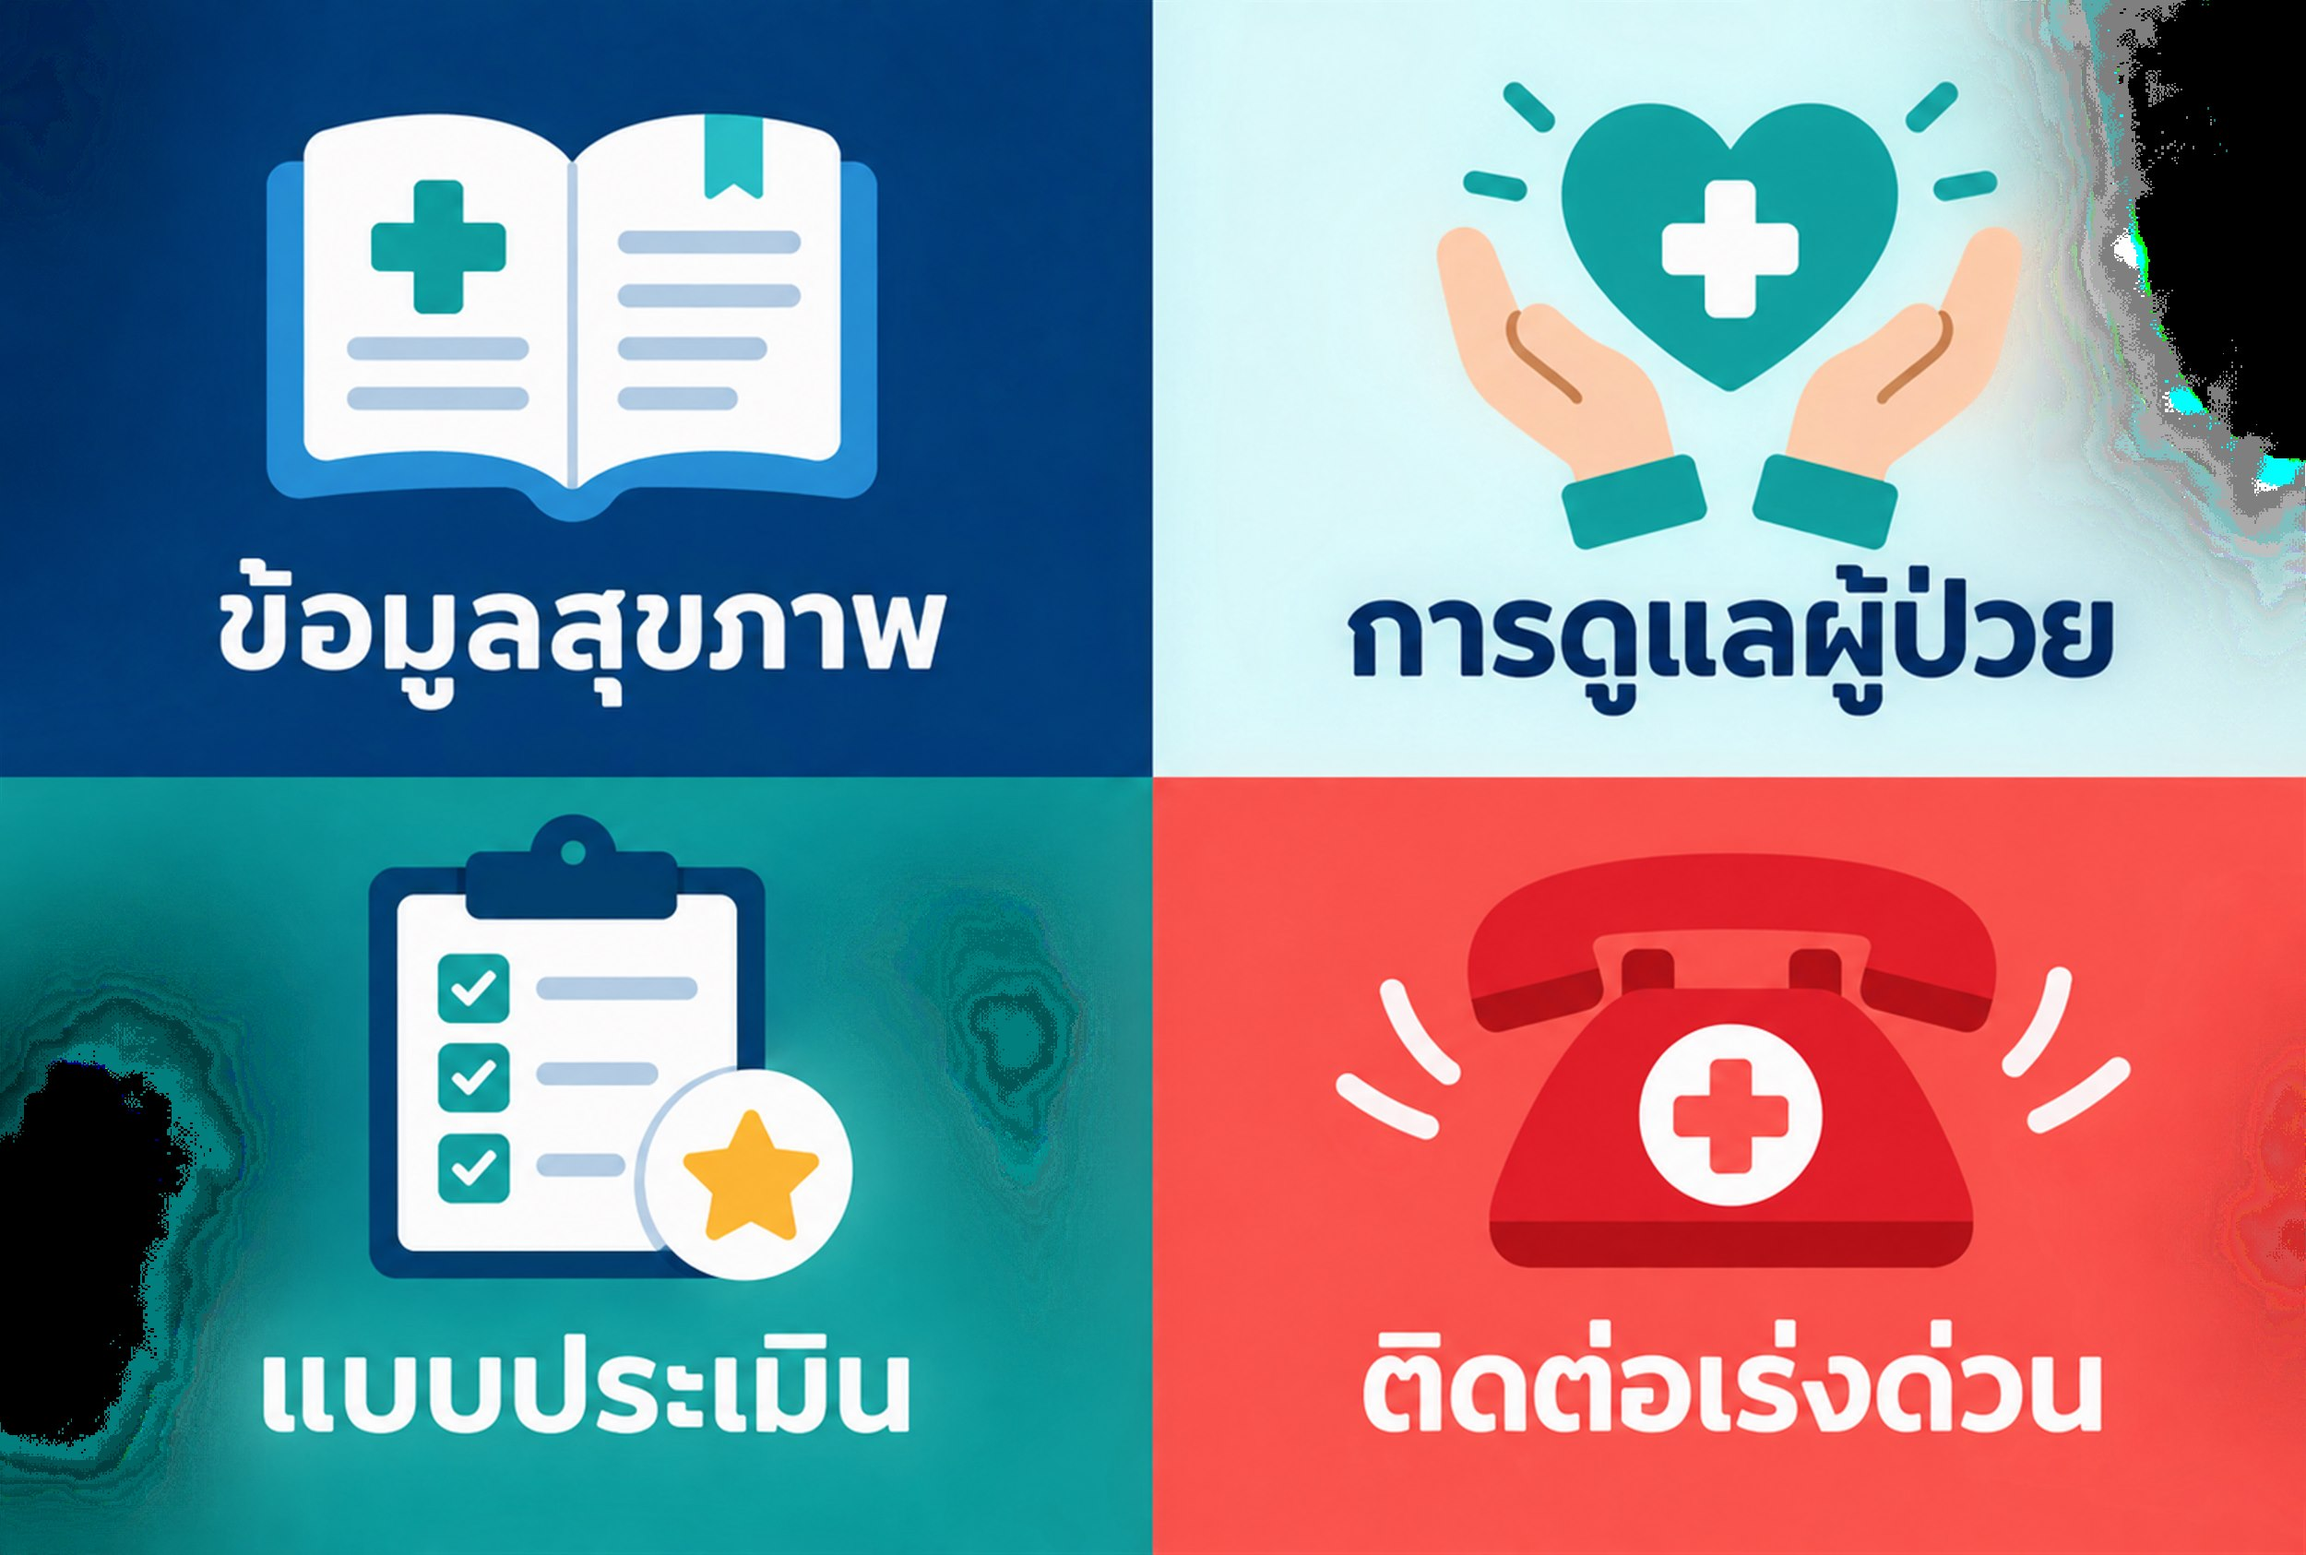
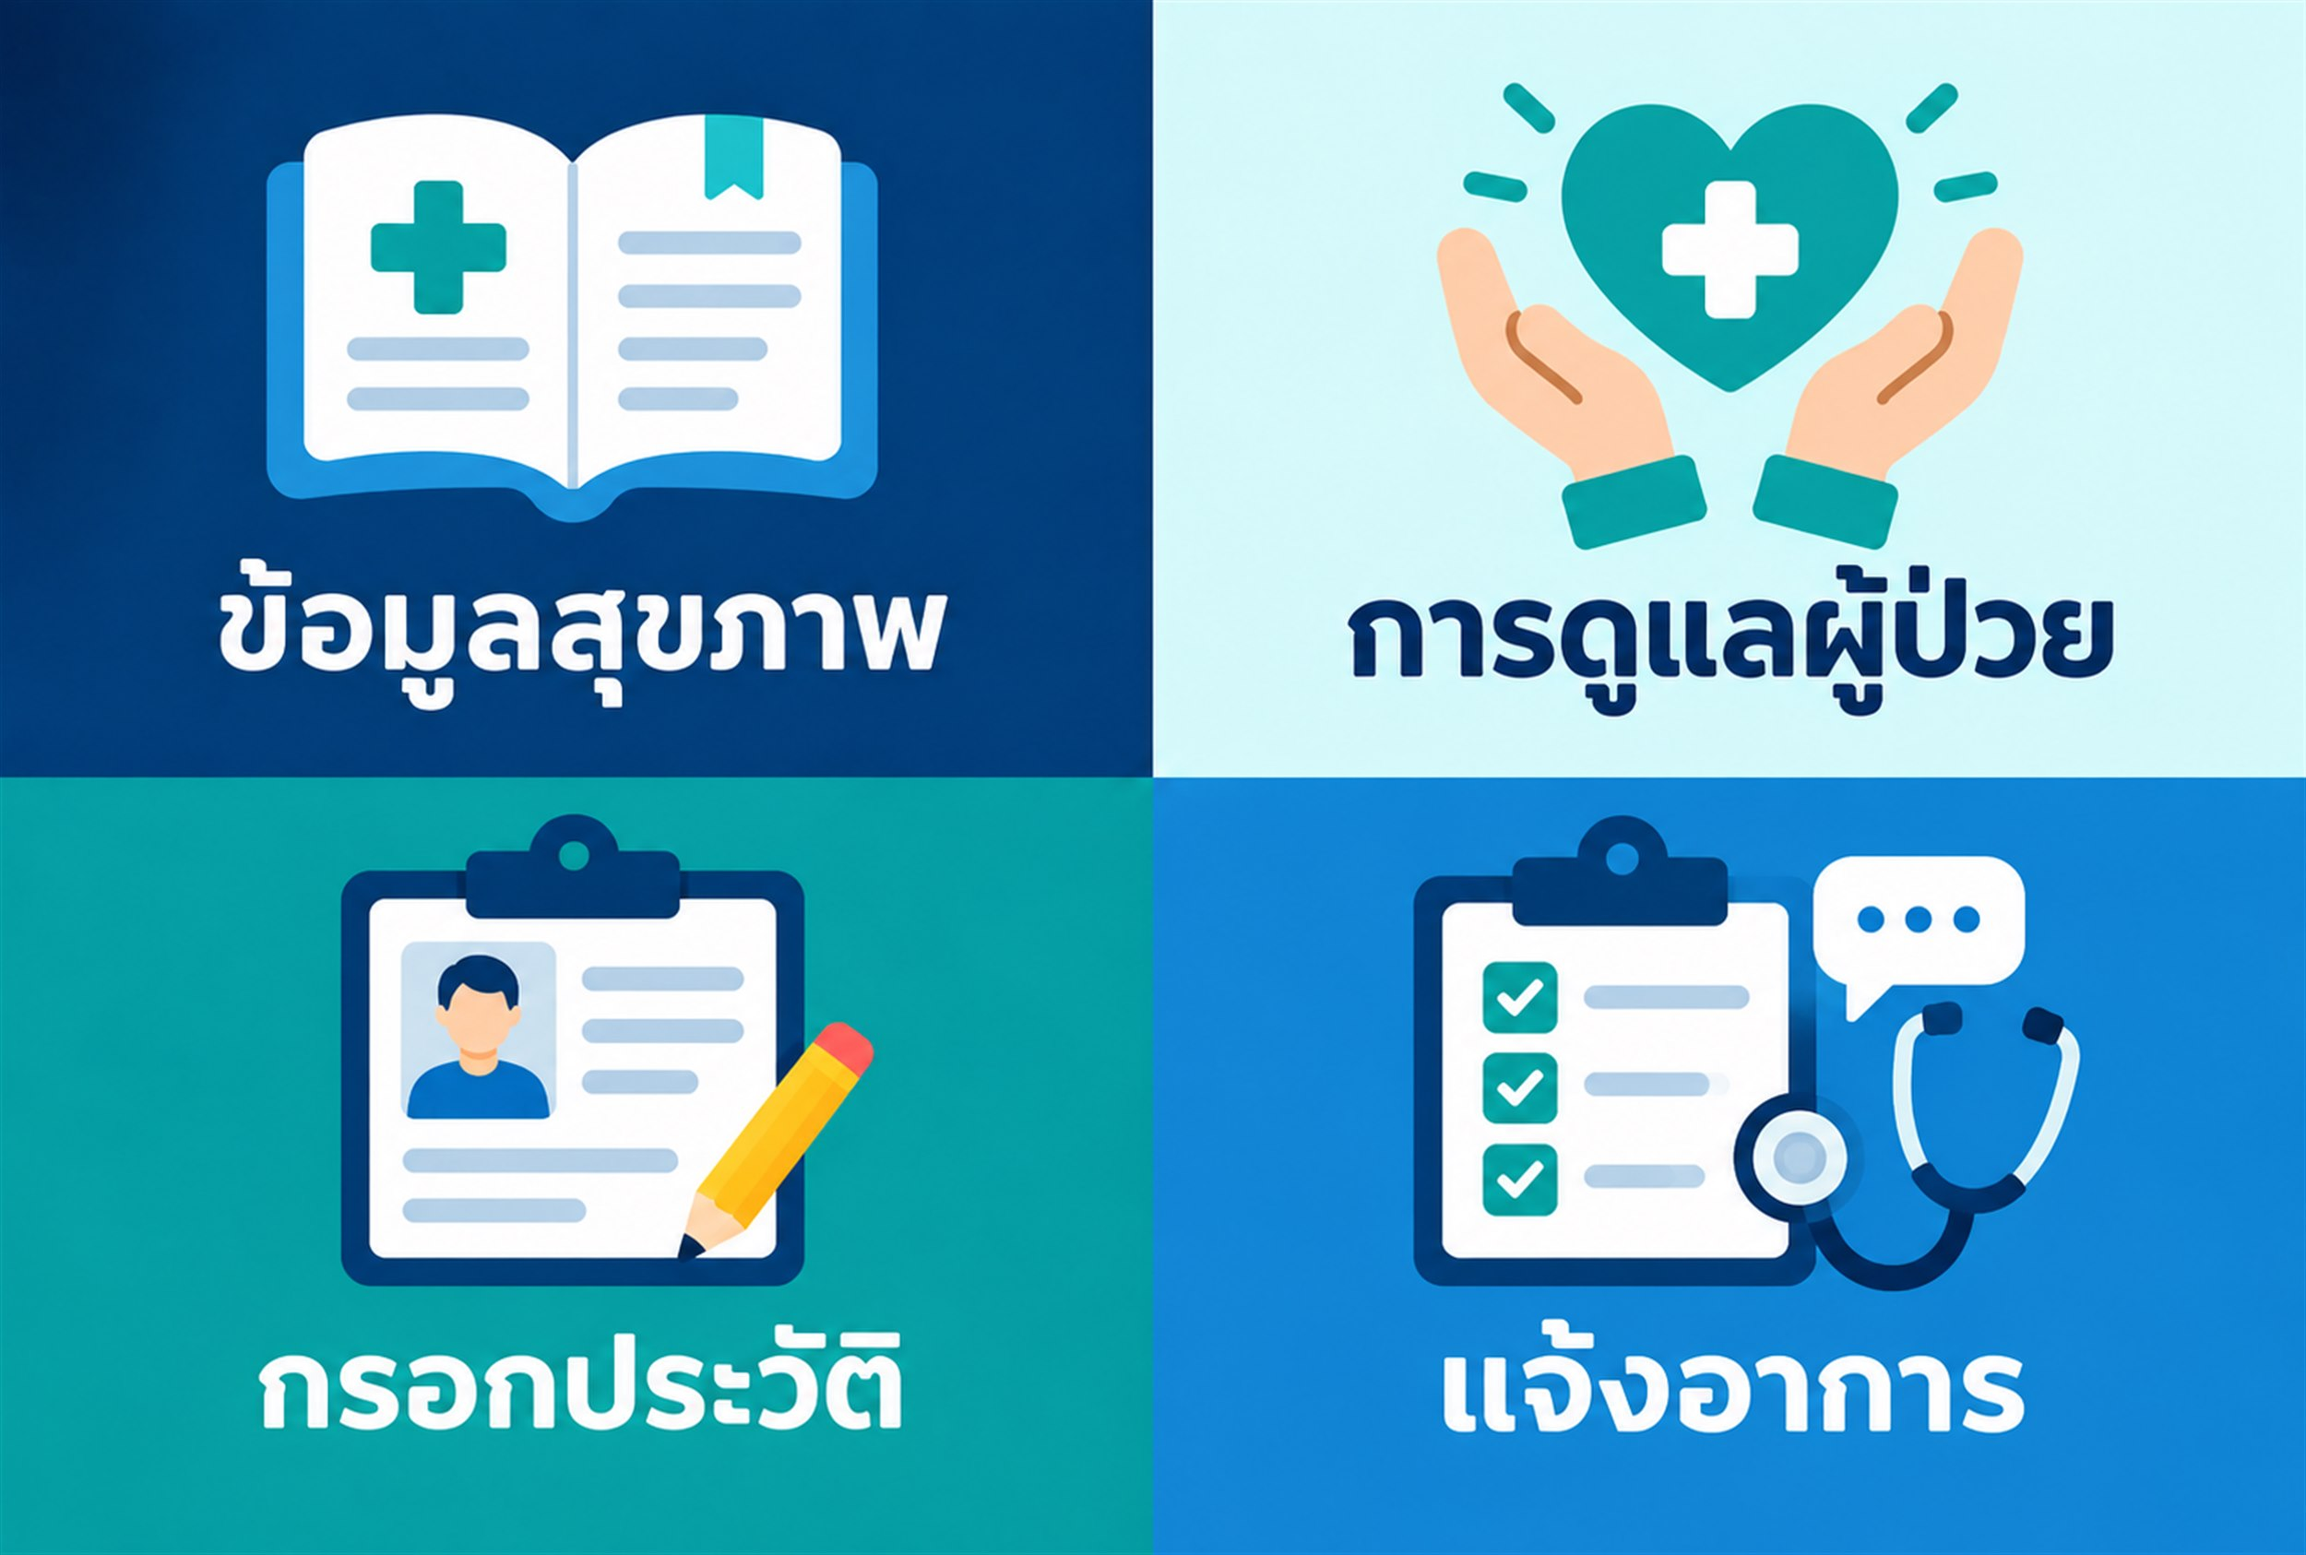
Replace LINE rich menu actions with intake forms

diff --git a/line/README.md b/line/README.md
@@ -1,10 +1,11 @@
 # LINE setup
 
-The web app provides three LIFF endpoint URLs:
+The web app provides four LIFF endpoint URLs:
 
 - `/liff/health`
 - `/liff/care`
-- `/liff/assessment`
+- `/liff/profile`
+- `/liff/symptom`
 
 Create one LIFF app for each endpoint in LINE Developers, then use each generated
 `https://liff.line.me/{liffId}` URL in the rich menu setup script.
@@ -14,7 +15,8 @@ Required environment variables:
 - `LINE_CHANNEL_ACCESS_TOKEN`
 - `LIFF_HEALTH_URL`
 - `LIFF_CARE_URL`
-- `LIFF_ASSESSMENT_URL`
+- `LIFF_PROFILE_URL`
+- `LIFF_SYMPTOM_URL`
 
 Run `node line/setup-rich-menu.mjs` to create, upload, and set the menu as default.
 The token must stay in the local environment and must not be committed.
